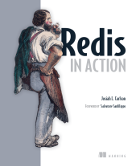
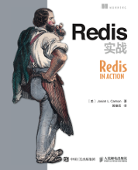
更新《Redis实战》的封面图片

diff --git a/index.rst b/index.rst
@@ -40,7 +40,7 @@ huangz1990@gmail.com
 
 - `《Disque 使用教程》 <http://disquebook.com/>`_
 
-- `《Redis in Action》中文版《Redis 实战》 <http://redisinaction.com/>`_ —— 正在进行排版，即将印刷并销售。
+- `《Redis 实战》（《Redis in Action》中文版） <http://redisinaction.com/>`_ —— 正在进行排版，即将印刷并销售。
 
   .. image:: cover/ria.png
 
